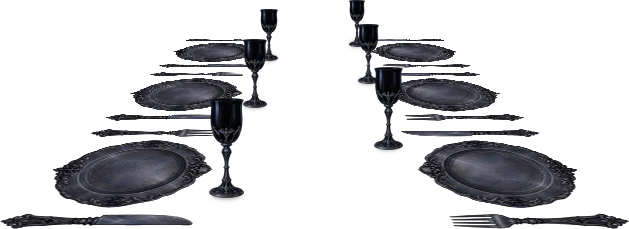
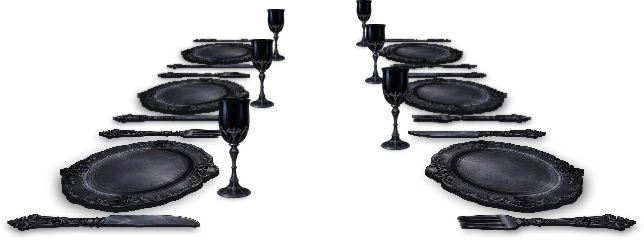
They Arrive at Midnight: plates and cutlery with depth and shadows, full-size pictures

Changed region(s): [[0.0, 0.0306, 0.4531, 1.0], [0.5437, 0.0, 1.0, 1.0]]

diff --git a/scripts/build-castle-art.py b/scripts/build-castle-art.py
@@ -618,15 +618,99 @@ def lay_flat(sp, u0, v0, width, facing):
     return warp_to_quad(sp, corners)
 
 
+def split_pieces(sp):
+    """A setting picture holds fork, plate and knife side by side: separate them
+    (left to right), each on a canvas the size of the whole picture."""
+    a = np.asarray(sp)
+    lab, n = ndimage.label(a[..., 3] > 60)
+    sizes = np.bincount(lab.ravel())[1:]
+    keep = [i + 1 for i in np.argsort(sizes)[::-1][:3]]
+    keep.sort(key=lambda i: np.nonzero(lab == i)[1].mean())
+    out = []
+    for i in keep:
+        m = np.asarray(Image.fromarray(((lab == i) * 255).astype(np.uint8)).filter(ImageFilter.MaxFilter(5))) > 0
+        b = a.copy()
+        b[..., 3] = np.where(m, b[..., 3], 0)
+        out.append(Image.fromarray(b, "RGBA"))
+    return out          # fork, plate, knife
+
+
+def relief(piece, kind):
+    """Light from above the middle of the table, which is the top of the
+    picture (the diner's forward). A plate is a dish: high rim, sunken well, so
+    the well's far wall falls in shadow and its near wall catches the light.
+    Cutlery is rounded: lit along its top edge, darker along the bottom."""
+    a = np.asarray(piece).astype(float)
+    al = a[..., 3] / 255
+    ys, xs = np.nonzero(al > 0.5)
+    if kind == "plate":
+        cx, cy = xs.mean(), ys.mean()
+        R = (xs.max() - xs.min() + ys.max() - ys.min()) / 4
+        yy_, xx_ = np.mgrid[0:a.shape[0], 0:a.shape[1]]
+        r = np.sqrt((xx_ - cx) ** 2 + (yy_ - cy) ** 2) / R
+        t = np.clip((r - 0.60) / 0.12, 0, 1)
+        h = t * t * (3 - 2 * t) * R * 0.10          # the rim stands above the well
+        strength, tilt = 7.0, (0.9 + 0.2 * np.clip((cy - yy_) / R, -1, 1))
+    else:
+        h = ndimage.gaussian_filter(al, 2.0) * 3.0
+        strength, tilt = 2.2, 1.0
+    gy = np.gradient(h, axis=0)
+    shade = np.clip(1 + strength * gy / max(1.0, a.shape[0] / 150), 0.55, 1.45) * tilt
+    a[..., :3] = np.clip(a[..., :3] * shade[..., None], 0, 255)
+    return Image.fromarray(a.astype(np.uint8), "RGBA")
+
+
+def lifted(warped, k, thick, lift, away):
+    """Shadow on the cloth and the edge's thickness under a piece lying on the
+    table. k: pixels per table-width there; away: +1 if the light comes from
+    the right (the shadow falls left)."""
+    A = np.asarray(warped.getchannel("A")).astype(float)
+    out = Image.new("RGBA", (W, H), (0, 0, 0, 0))
+    # soft shadow, pushed towards the viewer and away from the light
+    off_y, off_x = lift * k, -away * lift * k * 0.6
+    sh = Image.fromarray(A.astype(np.uint8)).filter(ImageFilter.GaussianBlur(max(1.0, lift * k * 0.9)))
+    shadow = Image.new("RGBA", (W, H), (3, 2, 8, 0))
+    shadow.putalpha(sh.point(lambda v: int(v * 0.62)))
+    tmp = Image.new("RGBA", (W, H), (0, 0, 0, 0)); tmp.paste(shadow, (round(off_x), round(off_y)))
+    out = Image.alpha_composite(out, tmp)
+    # the edge: the same outline a little lower, dark (it faces away from the light)
+    t = max(1, round(thick * k))
+    edge = np.asarray(warped).astype(float).copy()
+    solid = edge[..., 3] > 128
+    tone = edge[..., :3][solid].mean(0) * 0.42 if solid.any() else np.zeros(3)
+    edge[..., :3] = tone          # one plain dark tone: a metal edge in shadow, no pattern
+    for dy in range(t, 0, -1):
+        tmp = Image.new("RGBA", (W, H), (0, 0, 0, 0))
+        tmp.paste(Image.fromarray(edge.astype(np.uint8), "RGBA"), (0, dy))
+        out = Image.alpha_composite(out, tmp)
+    return out
+
+
 def build_settings(item):
     plate_f, goblet_f = ITEMS[item][0]
-    plate = moonlight(cut_out(plate_f), 0.66)
+    pieces = split_pieces(cut_out(plate_f))
+    kinds = ["cutlery", "plate", "cutlery"]
+    pieces = [moonlight(relief(pc, kd), 0.70) for pc, kd in zip(pieces, kinds)]
     goblet = cut_out(goblet_f)
     L = Layer()
     goblets = []
+    far = max(SEATS_V)
     for v in SEATS_V:
         for u0, facing in ((0.16, 1), (0.84, -1)):
-            L.im = Image.alpha_composite(L.im, lay_flat(plate, u0, v, PLATE_W, facing))
+            k = float(px_per_unit(u0, v))
+            # further away: a little darker and softer, like the rest of the room
+            dim = 1 - 0.16 * (v / far)
+            for pc, kd in zip(pieces, kinds):
+                w = lay_flat(pc, u0, v, PLATE_W, facing)
+                wa = np.asarray(w).astype(float)
+                wa[..., :3] *= dim
+                w = Image.fromarray(wa.astype(np.uint8), "RGBA")
+                if v / far > 0.6:
+                    w = w.filter(ImageFilter.GaussianBlur(0.5))
+                under = lifted(w, k, 0.010 if kd == "plate" else 0.004,
+                               0.012 if kd == "plate" else 0.007, facing)
+                L.im = Image.alpha_composite(L.im, under)
+                L.im = Image.alpha_composite(L.im, w)
             gu = u0 + 0.19 * facing
             gv = v - 0.10 * facing
             goblets.append((gv, gu))
